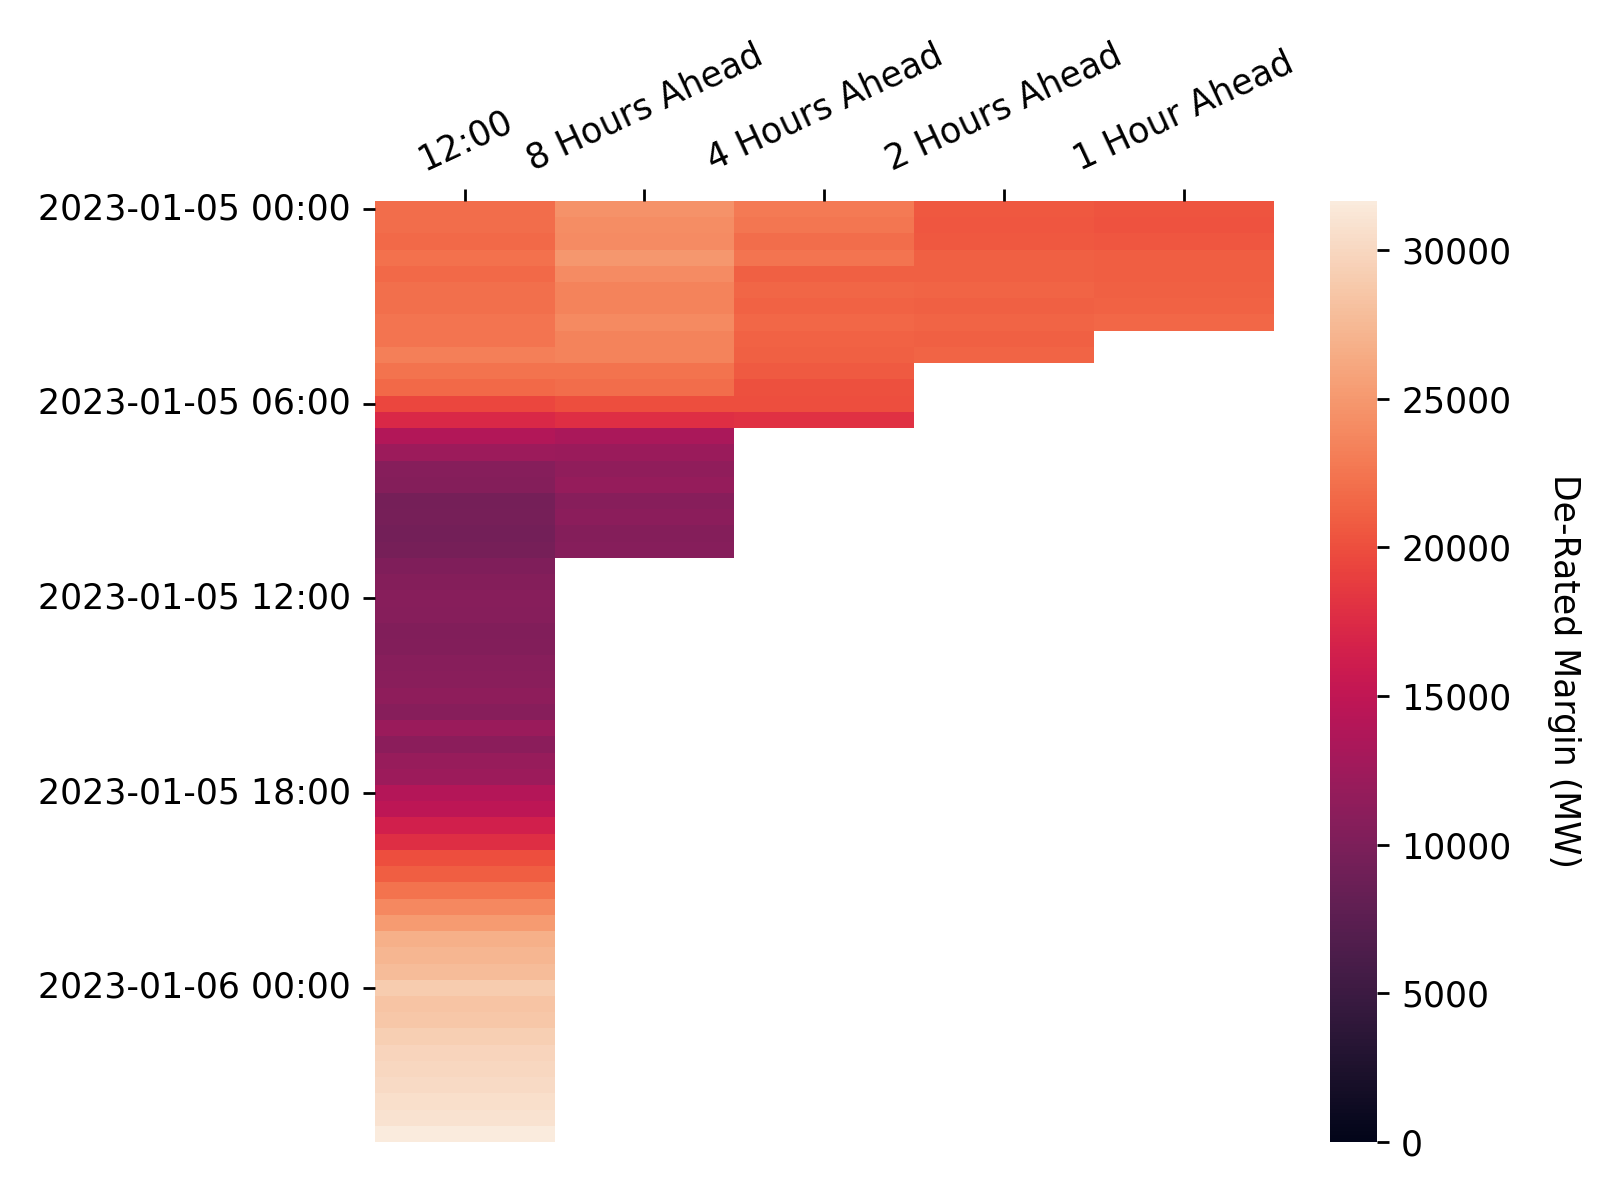
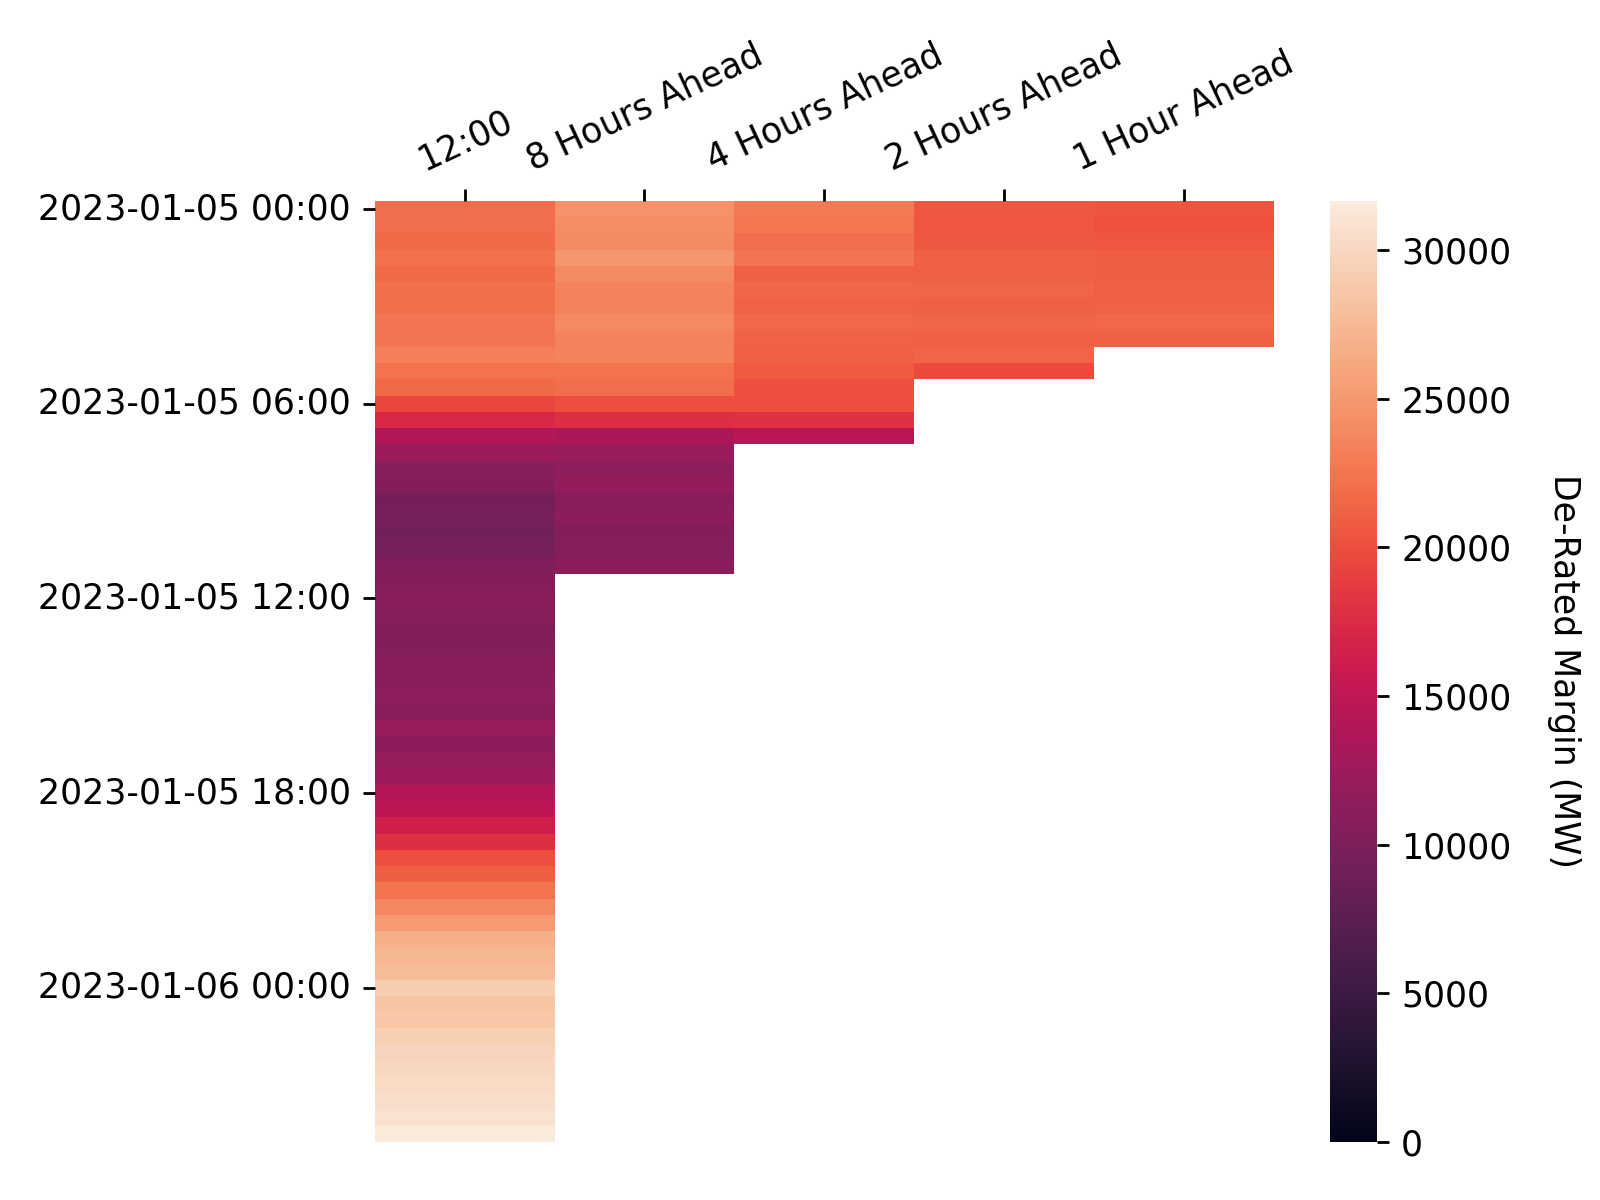
Apply automatic changes

Changed region(s): [[0.4375, 0.2775, 0.8125, 0.37], [0.3438, 0.4625, 0.4688, 0.4933]]

diff --git a/docs/js/map.js b/docs/js/map.js
@@ -144,7 +144,7 @@ document.addEventListener("DOMContentLoaded", function() {
                 follow: 1
             });
             mymap.addControl(sliderControl);
-            sliderControl.startSlider(334);
+            sliderControl.startSlider(335);
         });
     });
 });

diff --git a/docs/visualisations.md b/docs/visualisations.md
@@ -60,7 +60,7 @@ In each settlement period the system operator publishes the de-rated margin fore
 * At 1200 hours on each calendar day for all Settlement Periods for which Gate Closure has not yet passed and which occur within the current Operational Day or the following Operational Day; and
 * At eight, four, two and one hour(s) prior to the beginning of the Settlement Period to which the De-Rated Margin Forecast relates.
 
-These figures will be updated on an hourly basis, the last update was at: 2023-01-05 02:55
+These figures will be updated on an hourly basis, the last update was at: 2023-01-05 03:35
 
 <br>
 
@@ -83,7 +83,7 @@ The following heatmap shows how the more recent de-rated margin forecasts deviat
 
 ### Power Output Map
 
-Last Updated: 2023-01-05 02:55
+Last Updated: 2023-01-05 03:35
 
 This map shows the power output of individual plants connected to the transmission grid as stated in their most recent Physical Notifications. This data can be retrieved through the *PHYBMDATA* BMRS stream, the out-turn data can be viewed one week later through the *B1610* stream. The scrollbar at the top of the map can be used to view how the generation sources have changed their output over the last week, the layer control can be used to toggle on/off the transmission network, and the plants themselves can be clicked to reveal additional information. The plant location data used in this map has been taking from a sister project, [the Power Station Dictionary](https://osuked.github.io/Power-Station-Dictionary/), which aims to link between data about individual power plants.
 
